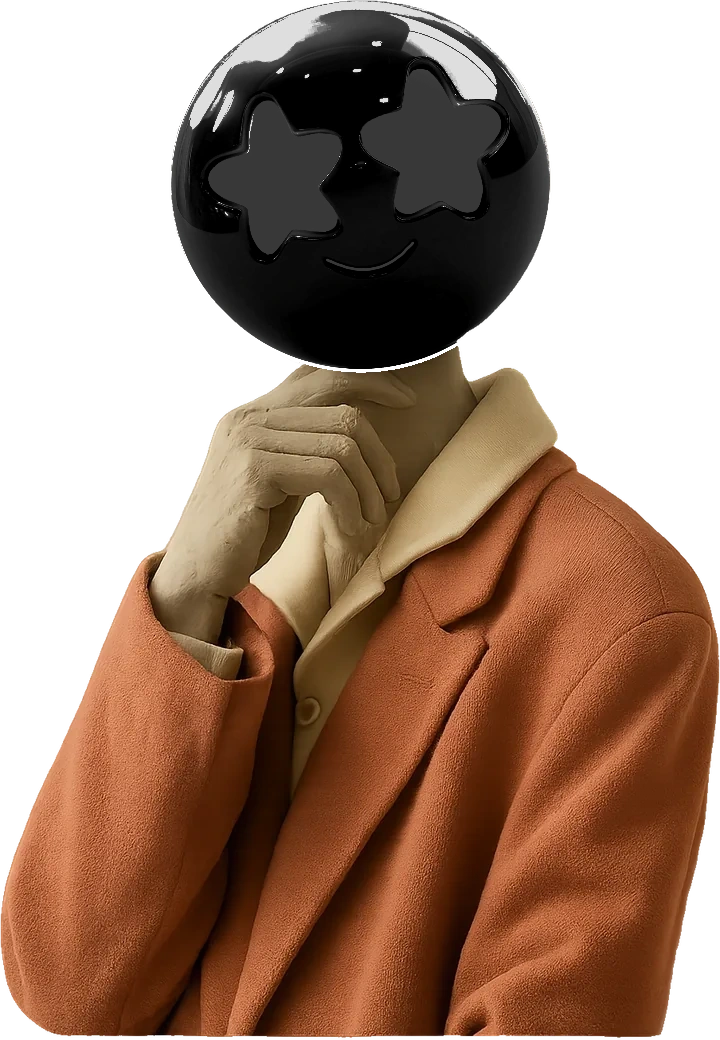
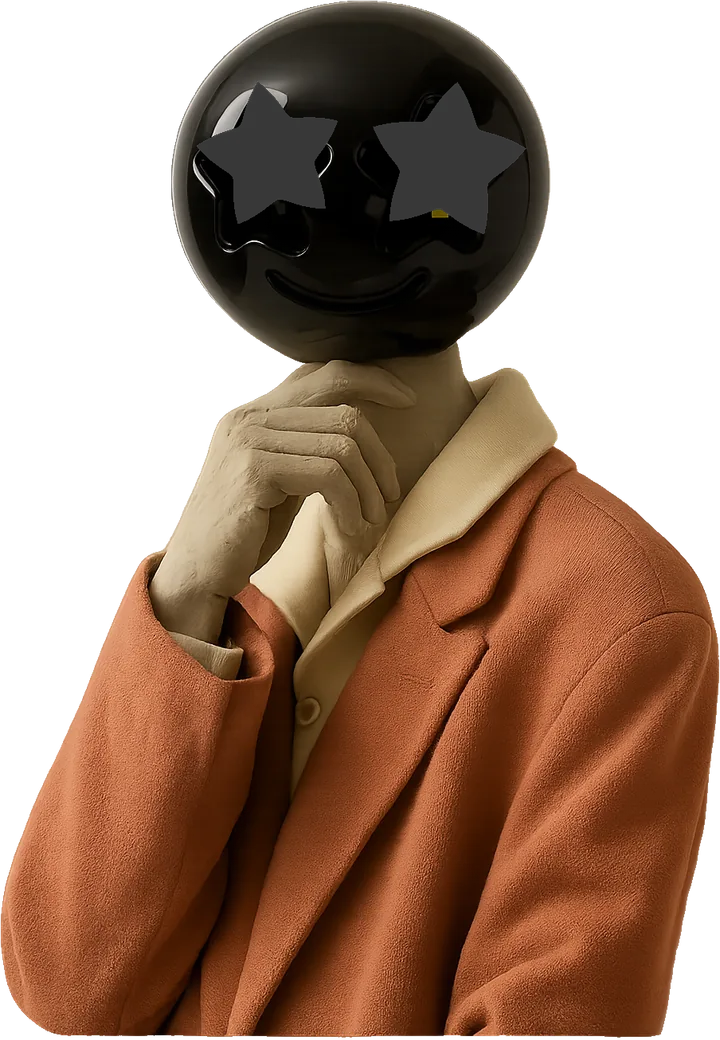
Hero: back to the pre-eye-work state
Restores everything as of the caption deployment (744817b): single
clay-hero.webp figure, original lens constants and hero CSS; removes
the ball/body layer assets and all head-replacement work.

Changed region(s): [[0.2139, 0.0, 0.7639, 0.3692], [0.6111, 0.2462, 0.7333, 0.3385]]

diff --git a/src/app/globals.css b/src/app/globals.css
@@ -663,45 +663,22 @@ html body {
 }
 .mxd-hero-02-marquee__image {
   /* !important: /css/main.css loads AFTER globals and sets 50rem/42rem.
-     Sized so the BALL (50% of the body width, centre at 22.6% of the body
-     height) reads like the reference poster, with the ball centred ON the
-     marquee line — the text runs through it and becomes icons in the star
-     eyes, exactly the original effect. */
+     Sized so the HEAD (52.5% of image width) matches the old ball, with the
+     head centred ON the marquee line — the text runs through it and becomes
+     icons in the star eyes, exactly the original effect. */
   width: var(--hiw) !important;
-  /* translateY(-22.6%) pins the BALL CENTRE (22.6% of body height) to the
-     line centre; the body drops toward the fold and is clipped by the hero =
+  /* translateY(-18%) pins the HEAD CENTRE (18% of image height) to the line
+     centre; the body drops toward the fold and is clipped by the hero =
      grounded, not floating */
-  transform: translateX(-50%) translateY(-22.6%) !important;
+  transform: translateX(-50%) translateY(-18%) !important;
 }
-/* body layer: in FRONT of the ball — the hand's fingers overlap the chin.
-   top: drops the body slightly relative to the ball so the neck/collar sit
-   naturally under the chin (reference placement). */
-.mxd-hero-02-marquee__image img.hero-body {
-  position: relative;
-  top: 4%;
-  z-index: 2;
+.mxd-hero-02-marquee__image img {
   width: 100%;
   height: auto;
   /* reserve the final box before decode: a late-decoding hero image must not
      change document height — that fired a global ScrollTrigger.refresh that
      could land as a visible stutter while already scrolling the card stack */
   aspect-ratio: 720 / 1040;
-}
-/* ball layer: behind the body; centre = (50%, 22.6%) of the body box.
-   top = 22.6% − (50% width × 720/1040 aspect)/2 = 5.3% */
-.mxd-hero-02-marquee__image img.hero-ball {
-  position: absolute;
-  left: 25%;
-  top: 5.3%;
-  width: 50%;
-  height: auto;
-  aspect-ratio: 1 / 1;
-  z-index: 1;
-}
-/* the head + marquee line ride a touch higher on the page (reference
-   composition shows more of the coat) */
-.mxd-hero-02-marquee {
-  margin-top: -3.5vh;
 }
 /* clip the character's coat at the hero's edge so the figure stands into
    the fold instead of spilling into the next section */

diff --git a/src/components/HeroMarqueeLens.tsx b/src/components/HeroMarqueeLens.tsx
@@ -84,8 +84,7 @@ export default function HeroMarqueeLens() {
       const line = marquee?.querySelector('.mxd-hero-02-marquee__line') as HTMLElement | null;
       const textMarquee = line?.querySelector('.marquee') as HTMLElement | null;
       const track = line?.querySelector('.marquee__toleft') as HTMLElement | null;
-      // the BALL is its own layer now (behind the body so fingers overlap it)
-      const smiley = marquee?.querySelector('.hero-ball') as HTMLElement | null;
+      const smiley = marquee?.querySelector('.mxd-hero-02-marquee__image') as HTMLElement | null;
       // Wait until the marquee is actually animating (GSAP has set a transform).
       if (!marquee || !line || !textMarquee || !track || !smiley) return false;
       if (getComputedStyle(track).transform === 'none') return false;
@@ -136,9 +135,10 @@ export default function HeroMarqueeLens() {
       const second = strip.children[setLen] as HTMLElement;
       const stripPeriod = second.offsetLeft - first.offsetLeft;
 
-      // The lens tracks the dedicated ball element: its centre IS the ball
-      // centre, radius just inside the sphere's edge.
-      const HEAD = { cx: 0.5, cy: 0.5, r: 0.49 };
+      // The clay character's HEAD is the lens now: ball centre at
+      // (50%, 18%) of the image, radius 24% of its width, star eyes riding
+      // slightly above centre at 15.2% (fractions measured from the cutout).
+      const HEAD = { cx: 0.5, cy: 0.18, r: 0.24, eyeCy: 0.152 };
 
       // Static band geometry — only changes on resize, never per frame.
       // The head sits ON the marquee line (original composition): the icon

diff --git a/src/app/page.tsx b/src/app/page.tsx
@@ -76,11 +76,7 @@ export default async function Home() {
               <div className="mxd-hero-02-static__center">
                 <div className="mxd-hero-02-marquee">
                   <div className="mxd-hero-02-marquee__image loading__item">
-                    {/* two layers: the ball sits BEHIND the body so the hand's
-                        fingers overlap the chin — real 3D depth like the poster */}
-                    {/* eslint-disable-next-line @next/next/no-img-element */}
-                    <img className="hero-ball" src="/porthomeimages/clay-ball.webp" alt="" width={400} height={400} fetchPriority="high" decoding="async" />
-                    <Image className="hero-body" src="/porthomeimages/clay-body.webp" alt="The GRAPHIQ smiley in a clay suit" width={720} height={1040} priority fetchPriority="high" />
+                    <Image src="/porthomeimages/clay-hero.webp" alt="The GRAPHIQ smiley in a clay suit" width={720} height={1040} priority fetchPriority="high" />
                   </div>
                   <div className="mxd-hero-02-marquee__line loading__item">
                     <div className="marquee marquee-left--gsap">
